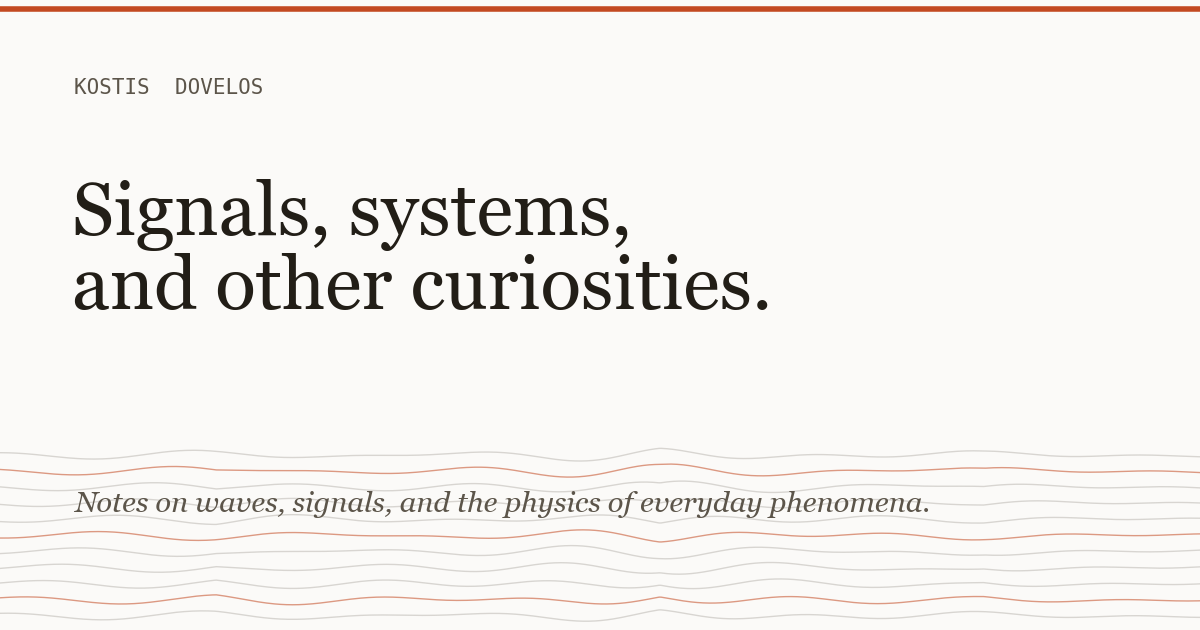
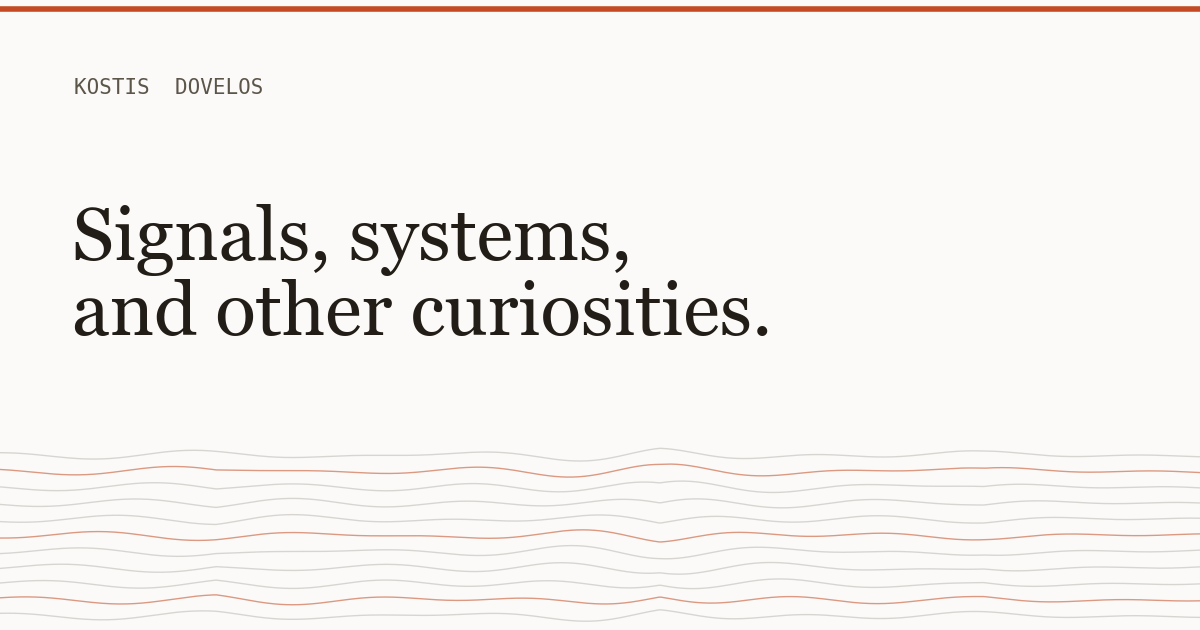
Remove tagline from default social card

Changed region(s): [[0.0617, 0.2714, 0.6475, 0.5429], [0.0617, 0.7841, 0.7708, 0.8143]]

diff --git a/scripts/social_cards.py b/scripts/social_cards.py
@@ -167,10 +167,8 @@ plt.close(fig)
 fig = new_card()
 fig.text(0.062, 0.86, "KOSTIS  DOVELOS", fontsize=15, color=INK_SOFT,
          family="monospace", va="center")
-fig.text(0.060, 0.60, "Signals, systems,\nand other curiosities.", fontsize=54,
+fig.text(0.060, 0.56, "Signals, systems,\nand other curiosities.", fontsize=54,
          color=INK, va="center", linespacing=1.05)
-fig.text(0.062, 0.20, "Notes on waves, signals, and the physics of everyday phenomena.",
-         fontsize=21, color=INK_SOFT, style="italic", va="center")
 
 # faint ridgeline band across the lower third
 ax = fig.add_axes([0.0, 0.0, 1.0, 0.30])
